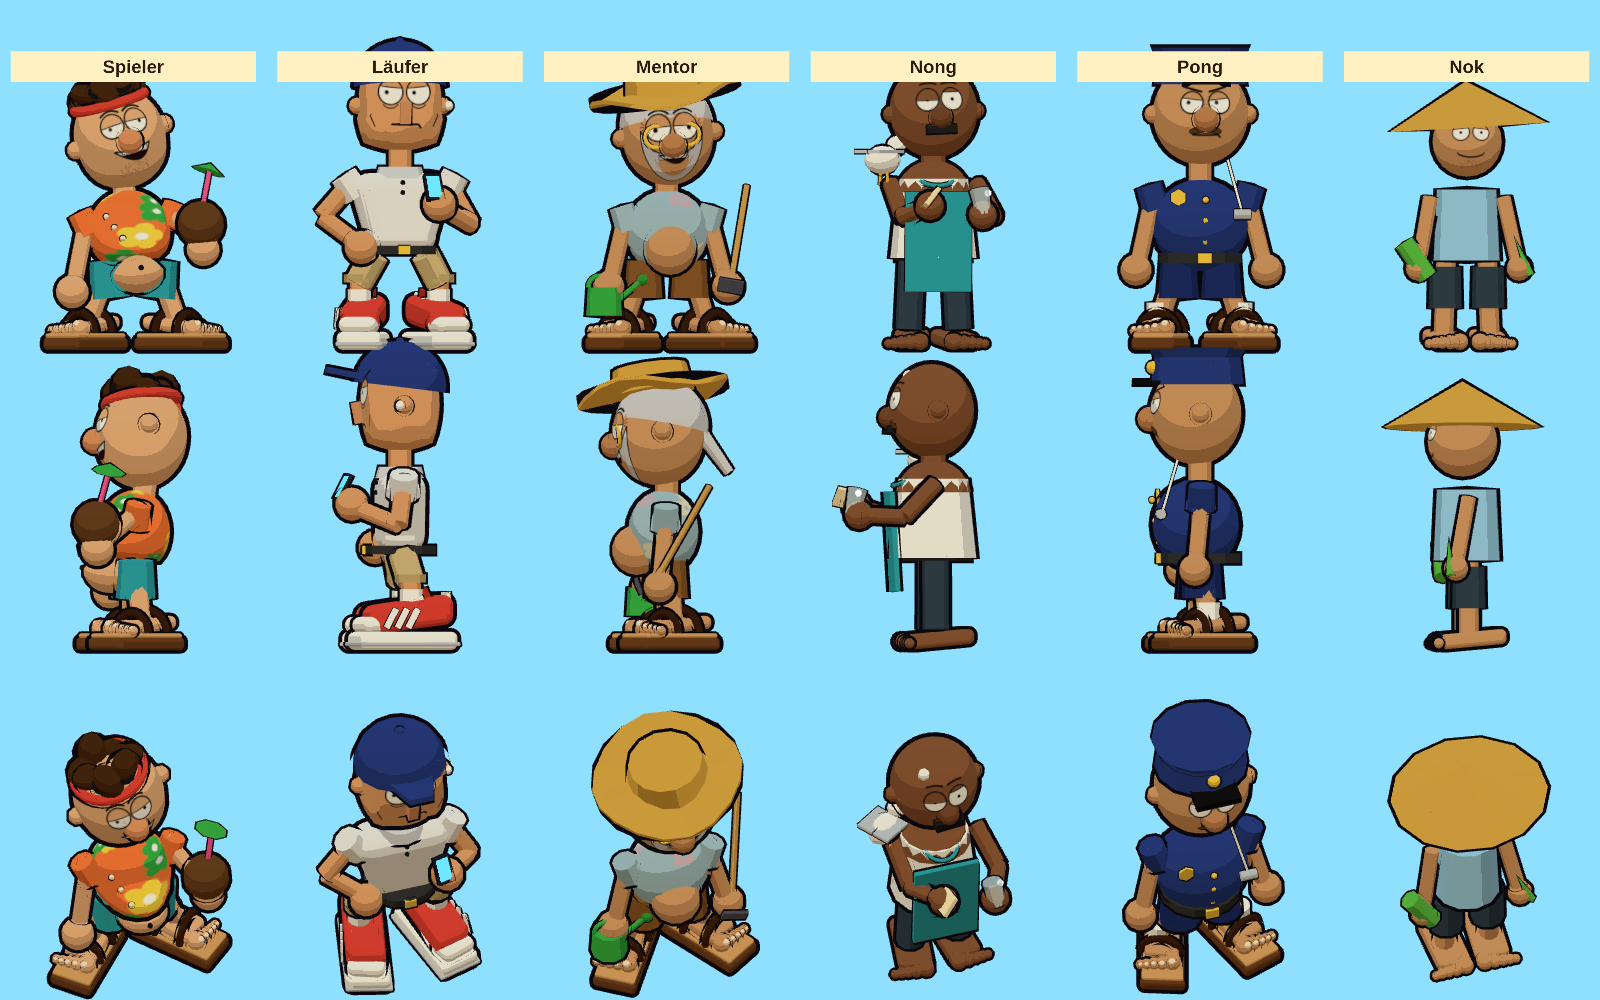
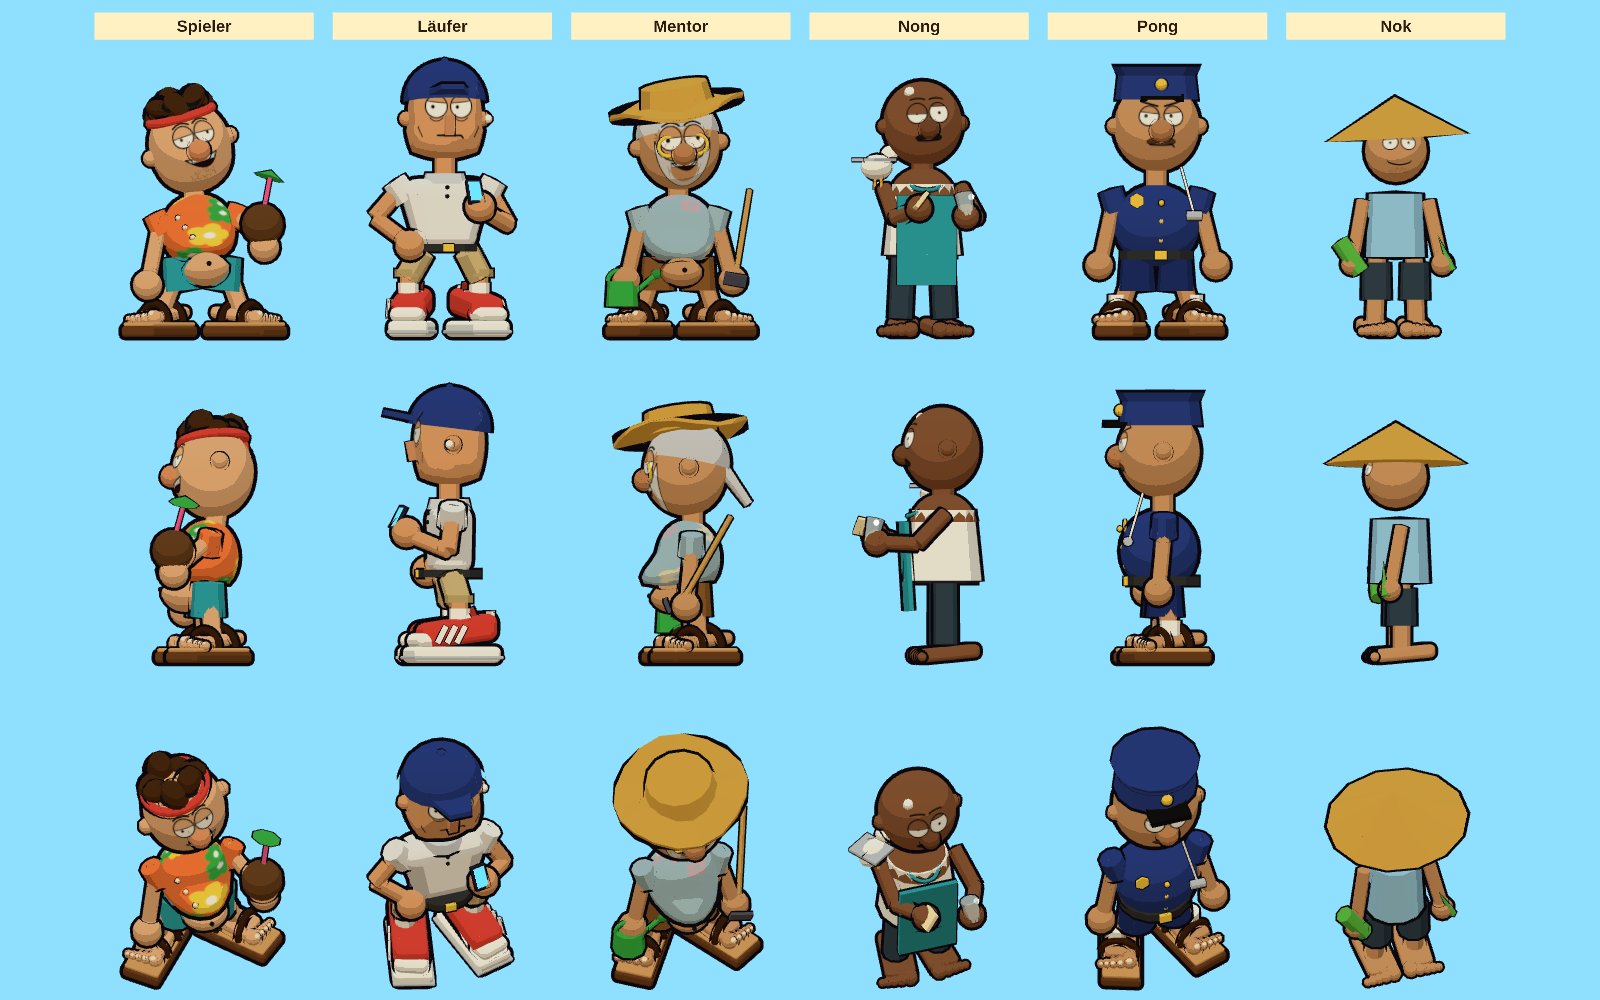
Runde 11: Durchstechen behoben, Kamera neigbar

diff --git a/spiel/js/figures.js b/spiel/js/figures.js
@@ -125,6 +125,43 @@ export function hawaiiTexture(base = '#ff7f3f', petals = ['#ffe14a', '#3bb84a'])
  * Aufbau: root → body (Pivot an der Hüfte, schief/zurückgelehnt) → Rumpf, Arme (Pivot Schulter), Kopf.
  *         root → legs[] (Pivot an der Hüfte) → Bein + Shorts + Sandale.
  */
+// ---------- Hemd mit Bauch (Spieler, Mentor) ----------
+// Eine geschlossene Hemdkugel, die vorn unten selbst die Bauchwölbung trägt und am Saum glatt abgeschnitten ist
+// (wellige Kante). Der nackte Bauch ist nur der Teil UNTER dem Saum; sein oberer Teil ist verschlankt und liegt
+// mit ≥ 2 cm Luft im Hemd — Teile, die aus dem Hemd herausragen, stechen samt Konturhülle durch. Maße rechnerisch
+// geprüft (Hülle 0.035 gegen die verformte Hemdfläche). Rückgabe { torso, belly }, alles hängt an parent.
+export function hemdMitBauch(parent, hemdMat, skin, { hipY = 1.0, bellyR = 0.34, knoepfe = false } = {}) {
+  const shirtDeform = (v) => {
+    const bulge = smoothstep(-v.y, -0.15, 0.32);    // 0 an der Brust … 1 am Saum
+    v.z = v.z * 0.85 + 0.36 * bulge * Math.max(0, v.z) / 0.5;
+    const hem = -0.32 + 0.03 * Math.sin(5 * Math.atan2(v.z, v.x)); // Saum
+    if (v.y < hem) v.y = hem;
+  };
+  const tg = new THREE.SphereGeometry(0.5, 20, 16);
+  deform(tg, shirtDeform);
+  const torso = toonMesh(tg, hemdMat, { outline: 0.05 });
+  torso.position.set(0, hipY + 0.42, 0.05);
+  torso.rotation.x = 0.12;
+  parent.add(torso);
+  const bellyGeo = new THREE.SphereGeometry(bellyR, 16, 12);
+  deform(bellyGeo, (v) => { const k = 1 - 0.7 * smoothstep(v.y, -0.15, 0.18); v.x *= k; v.z *= k; }); // oben schlanker: bleibt im Hemd
+  const belly = toonMesh(bellyGeo, skin, { outline: 0.035 });
+  belly.position.set(0.02, hipY - 0.02, 0.3);
+  parent.add(belly);
+  const navel = toonMesh(new THREE.SphereGeometry(0.035, 6, 5), BLACK, { outline: 0, basic: true });
+  navel.position.set(0, -0.08, bellyR - 0.015);
+  belly.add(navel);
+  if (knoepfe) for (let i = 0; i < 3; i++) { // Knöpfe sitzen auf der Hemdfläche (gleiche Verformung), als Kinder des Hemds
+    const p = new THREE.Vector3(-0.3 + i * 0.07, 0.2 - i * 0.14, 0);
+    p.z = Math.sqrt(Math.max(0, 0.25 - p.x * p.x - p.y * p.y));
+    shirtDeform(p);
+    const btn = toonMesh(new THREE.SphereGeometry(0.035, 6, 5), 0xfff5e0, { outline: 0.012 });
+    btn.position.set(p.x, p.y, p.z + 0.012);
+    torso.add(btn);
+  }
+  return { torso, belly };
+}
+
 export function schluffi() {
   const root = new THREE.Group();
   const skin = 0xf0b98a;
@@ -158,37 +195,7 @@ export function schluffi() {
   inner.position.set(0, -(hipY - 0.1), 0);
   body.add(inner);
 
-  // Hemd: eine geschlossene Kugel, die vorn unten selbst die Bauchwölbung trägt und am Saum glatt
-  // abgeschnitten ist (wellige Kante). Der nackte Bauch ist nur der Teil UNTER dem Saum; sein oberer Teil
-  // liegt mit Abstand im Hemd — Teile, die aus dem Hemd herausragen, würden samt Konturhülle durchstechen.
-  const shirtDeform = (v) => {
-    const bulge = smoothstep(-v.y, -0.15, 0.32);    // 0 an der Brust … 1 am Saum
-    v.z = v.z * 0.85 + 0.36 * bulge * Math.max(0, v.z) / 0.5;
-    const hem = -0.32 + 0.03 * Math.sin(5 * Math.atan2(v.z, v.x)); // Saum
-    if (v.y < hem) v.y = hem;
-  };
-  const tg = new THREE.SphereGeometry(0.5, 20, 16);
-  deform(tg, shirtDeform);
-  const torso = toonMesh(tg, toon(0xffffff, { map: hawaiiTexture() }), { outline: 0.05 });
-  torso.position.set(0, hipY + 0.42, 0.05);
-  torso.rotation.x = 0.12;
-  inner.add(torso);
-  const bellyGeo = new THREE.SphereGeometry(0.34, 16, 12);
-  deform(bellyGeo, (v) => { const k = 1 - 0.7 * smoothstep(v.y, -0.15, 0.18); v.x *= k; v.z *= k; }); // oben schlanker: bleibt im Hemd
-  const belly = toonMesh(bellyGeo, skin, { outline: 0.035 });
-  belly.position.set(0.02, hipY - 0.02, 0.3);
-  inner.add(belly);
-  const navel = toonMesh(new THREE.SphereGeometry(0.035, 6, 5), BLACK, { outline: 0, basic: true });
-  navel.position.set(0, -0.08, 0.325);
-  belly.add(navel);
-  for (let i = 0; i < 3; i++) { // Knöpfe sitzen auf der Hemdfläche (gleiche Verformung), als Kinder des Hemds
-    const p = new THREE.Vector3(-0.3 + i * 0.07, 0.2 - i * 0.14, 0);
-    p.z = Math.sqrt(Math.max(0, 0.25 - p.x * p.x - p.y * p.y));
-    shirtDeform(p);
-    const btn = toonMesh(new THREE.SphereGeometry(0.035, 6, 5), 0xfff5e0, { outline: 0.012 });
-    btn.position.set(p.x, p.y, p.z + 0.012);
-    torso.add(btn);
-  }
+  hemdMitBauch(inner, toon(0xffffff, { map: hawaiiTexture() }), skin, { hipY, knoepfe: true });
 
   // Arme: Pivot an der Schulter
   const shoulderY = hipY + 0.66;
@@ -449,7 +456,7 @@ export function pose(figur, name = 'stehen') {
 // buildNong() → Gruppe (Füße auf y = 0, Blick nach +z); updateNong(g, t) = Idle-Loop (polieren, nicken, Möwe);
 // setNongMood(g, 'neutral' | 'muede' | 'gruss' | …) tauscht nur das Gesicht (das halb geschlossene Auge bleibt).
 const NONG_SKIN = 0x8d5a3a;
-const NONG_FACE = { skin: '#8d5a3a', bart: 'schnauzer', seed: 41, lids: [0.55, 0.2] };
+const NONG_FACE = { skin: '#8d5a3a', bart: 'schnauzer', beardColor: '#1c1c1c', seed: 41, lids: [0.55, 0.2] }; // Schnauzer nur gemalt, kein 3D-Klotz davor
 
 export function bareFoot(skin, side = 'L') {
   const m = sideSign(side);
@@ -515,7 +522,6 @@ export function buildNong() {
   head.add(toonMesh(hg, skin, { outline: 0.05 }));
   const decal = faceDecal(face('kunde', 'neutral', NONG_FACE), 0.527, shape); head.add(decal);
   const nose = toonMesh(new THREE.SphereGeometry(0.13, 10, 8), 0x7a4a2e, { outline: 0.03 }); nose.position.set(0, -0.08, 0.52); head.add(nose);
-  const mo = toonMesh(new THREE.BoxGeometry(0.36, 0.09, 0.08), 0x222222, { outline: 0.025 }); mo.position.set(0, -0.22, 0.52); head.add(mo);
   for (const s of [-1, 1]) { const ear = toonMesh(new THREE.SphereGeometry(0.1, 8, 6), skin, { outline: 0.03 }); ear.position.set(s * 0.52, -0.02, 0); head.add(ear); }
   const shine = toonMesh(new THREE.SphereGeometry(0.08, 6, 5), 0xffffff, { outline: 0 }); shine.position.set(-0.2, 0.42, 0.25); head.add(shine);
   // Möwe Chef auf der linken Schulter

diff --git a/spiel/js/zone-huegel.js b/spiel/js/zone-huegel.js
@@ -7,7 +7,7 @@ import * as THREE from 'three';
 import { RoundedBoxGeometry } from 'three/addons/geometries/RoundedBoxGeometry.js';
 import { toonMesh, toon, deform, rng, BLACK } from './toon.js';
 import { limb, hut } from './props.js';
-import { sandal, pose } from './figures.js';
+import { sandal, pose, hemdMitBauch } from './figures.js';
 import { coconut } from './props.js';
 import { BUILDING_POS, buildingScale } from './logic.js';
 import { face, faceDecal } from './faces.js';
@@ -196,11 +196,7 @@ export function mentor() {
     shoe.position.set(fx, -hipY, 0); shoe.rotation.y = s * 0.6; leg.add(shoe);
     root.add(leg); legs.push(leg);
   }
-  const tg = new THREE.SphereGeometry(0.5, 16, 12); tg.scale(1, 1.0, 0.85);
-  const torso = toonMesh(tg, toon(0xffffff, { map: fadedShirtTexture() }), { outline: 0.05 });
-  torso.position.set(0, hipY + 0.42, 0.04); root.add(torso);
-  const belly = toonMesh(new THREE.SphereGeometry(0.3, 12, 9), skin, { outline: 0.035 });
-  belly.position.set(0, hipY + 0.2, 0.36); root.add(belly);
+  hemdMitBauch(root, toon(0xffffff, { map: fadedShirtTexture() }), skin, { hipY, bellyR: 0.3 }); // Bauch nur unterm Saum, wie beim Spieler
   const shoulderY = hipY + 0.68;
   const arms = [];
   for (const s of [-1, 1]) {
@@ -224,7 +220,7 @@ export function mentor() {
   const shape = (geo) => { geo.scale(1, 1.1, 1); };
   const hg = new THREE.SphereGeometry(0.55, 28, 20); shape(hg);
   head.add(toonMesh(hg, skin, { outline: 0.05 }));
-  head.add(faceDecal(face('kunde', 'selig', { skin: '#d9a06e', beard: true, haare: 'weiss', seed: 77, beardColor: '#d8d8e0' }), 0.557, shape));
+  head.add(faceDecal(face('kunde', 'selig', { skin: '#d9a06e', beard: true, haare: 'weiss', seed: 77, beardColor: '#f1f1f4' }), 0.557, shape)); // weißer Bart, nicht grau
   const nose = toonMesh(new THREE.SphereGeometry(0.15, 10, 8), 0xc98a5a, { outline: 0.03 });
   nose.position.set(0, -0.06, 0.56); head.add(nose);
   for (const s of [-1, 1]) {

diff --git a/spiel/js/kunden.js b/spiel/js/kunden.js
@@ -137,7 +137,7 @@ export function buildKunde(k, seed = 1, outfit = null) {
   const root = new THREE.Group();
   const rand = rng(seed * 31 + 7);
   const skin = SKIN[k.hautton] || 0xe8a773;
-  const hairColor = k.haare === 'weiss' ? 0xeeeeee : HAIR[Math.floor(rand() * HAIR.length)];
+  const hairColor = k.haare === 'weiss' ? 0xf1f1f4 : HAIR[Math.floor(rand() * HAIR.length)]; // Weiß leicht kühl: das Toon-Material zieht 0xeeeeee in den Schattenstufen zu Grau (Schleier)
   const stance = 0.46;
   const hipY = 1.1;
   const hose = k.hose || (k.hemd === 'polo_sauber' || k.hemd === 'uniform_versteckt' ? 'chino' : 'shorts');
@@ -415,7 +415,7 @@ export function buildKunde(k, seed = 1, outfit = null) {
     }
   } else if (hairKind !== 'glatze') {
     const cap = toonMesh(new THREE.SphereGeometry(0.55, 16, 10, 0, Math.PI * 2, 0, Math.PI * 0.42), hairColor, { outline: 0.045 });
-    cap.position.set(0, 0.12, -0.05); cap.rotation.x = -0.15; head.add(cap);
+    cap.position.set(0, k.haare === 'weiss' ? 0.17 : 0.12, -0.05); cap.rotation.x = k.haare === 'weiss' ? -0.22 : -0.15; head.add(cap); // weißes Haar sitzt höher: der Kappenrand darf nicht über Stirn/Brille hängen
     if (hairKind === 'lang') {
       for (const s of [-1, 1]) {
         const strand = toonMesh(new THREE.BoxGeometry(0.16, 0.9, 0.3), hairColor, { outline: 0.035 });

diff --git a/spiel/js/faces.js b/spiel/js/faces.js
@@ -113,7 +113,7 @@ function normalize(o) {
     lids: o.lids ?? null,
     brows: o.brows ?? null,
     stirnstreifen: !!o.stirnstreifen,
-    beardColor: cssColor(o.beardColor, weiss ? '#d8d8e0' : '#6b4423'),
+    beardColor: cssColor(o.beardColor, weiss ? '#f1f1f4' : '#6b4423'),
     browColor: weiss ? '#d8d8e0' : null,
   };
 }
@@ -301,6 +301,8 @@ function beard(ctx, m, skin, color, big) {
   ctx.quadraticCurveTo(800, 470, 740, 560); ctx.quadraticCurveTo(620, 610, 512, 612);
   ctx.quadraticCurveTo(404, 610, 284, 560); ctx.quadraticCurveTo(224, 470, 150, 360);
   ctx.closePath(); ctx.fill(); ctx.stroke();
+  // Haarstriche im Bart, sonst wirkt ein heller Bart wie ein grauer Schleier überm Gesicht
+  for (let i = 0; i < 7; i++) { const x = 300 + i * 70, y = 700 + (i % 2) * 40; strokePath(ctx, [[x, y], [x - 10, y + 110]], 6, 'rgba(17,17,17,0.45)'); }
   ctx.fillStyle = skin;
   ctx.beginPath(); ctx.ellipse(m.x, m.y + (big ? 40 : 14), m.w * (big ? 0.62 : 0.54), big ? 170 : 84, 0, 0, Math.PI * 2); ctx.fill();
   mustache(ctx, m, color);
